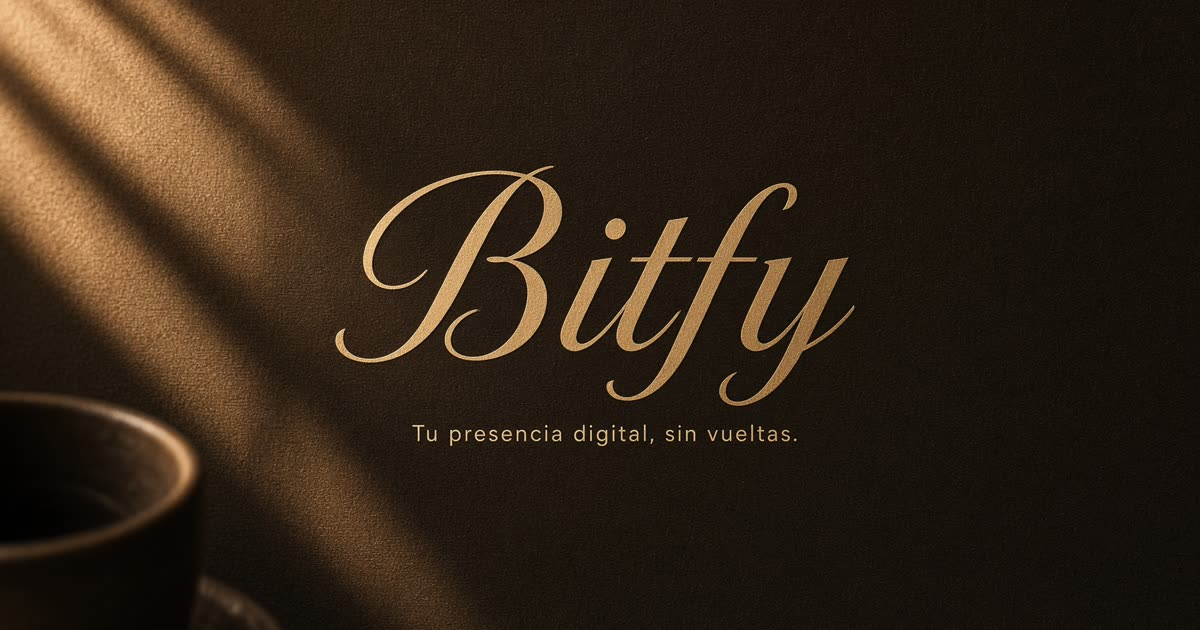
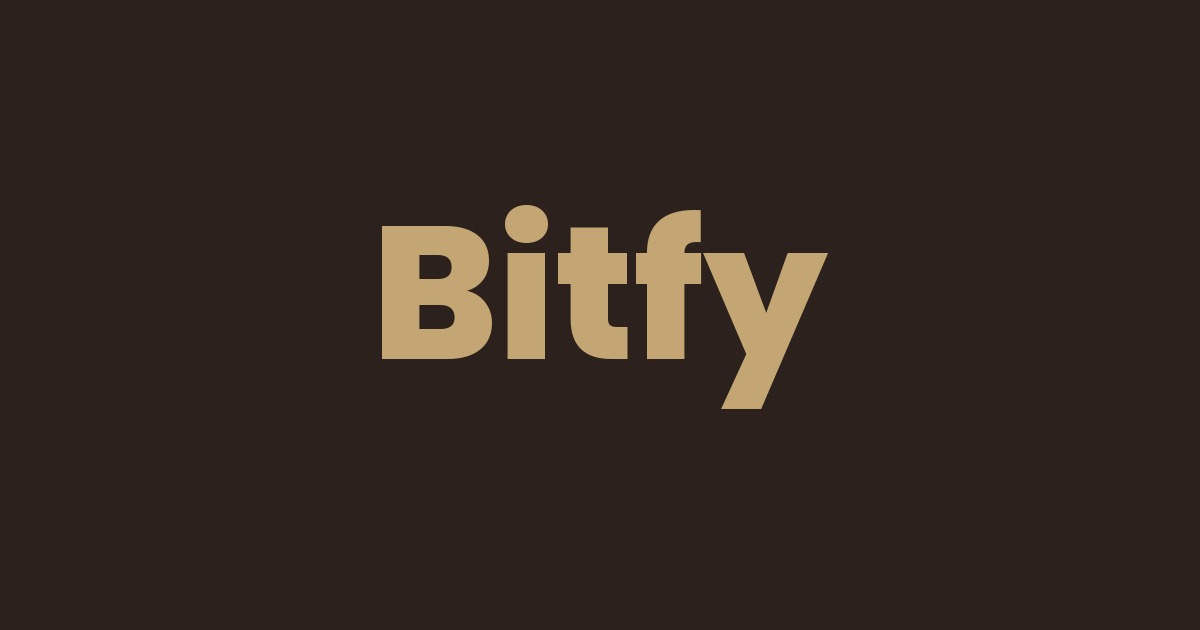
Preview de WhatsApp con el wordmark original de Bitfy

diff --git a/server/middleware/bitfy-og.ts b/server/middleware/bitfy-og.ts
@@ -1,9 +1,16 @@
-const OG_IMAGE = "https://bitfy.vercel.app/og.jpg?v=autumn";
+const OG_IMAGE = "https://www.bitfy.com.ar/og.jpg?v=wordmark";
+
 const OG_TAGS = [
+  `<meta property="og:title" content="Bitfy">`,
+  `<meta property="og:description" content="Tu presencia digital, sin vueltas.">`,
+  `<meta property="og:url" content="https://www.bitfy.com.ar/">`,
   `<meta property="og:image" content="${OG_IMAGE}">`,
+  `<meta property="og:image:secure_url" content="${OG_IMAGE}">`,
   `<meta property="og:image:width" content="1200">`,
   `<meta property="og:image:height" content="630">`,
   `<meta property="og:image:type" content="image/jpeg">`,
+  `<meta property="og:image:alt" content="Bitfy">`,
+  `<meta name="twitter:card" content="summary_large_image">`,
   `<meta name="twitter:image" content="${OG_IMAGE}">`,
 ].join("");
 
@@ -20,14 +27,11 @@ export default async function bitfyOgMiddleware(
   const type = result.headers.get("content-type") ?? "";
   if (!type.includes("text/html") || !result.body) return result;
 
-  const html = await result.text();
-  if (html.includes('property="og:image"')) {
-    return new Response(html, {
-      status: result.status,
-      statusText: result.statusText,
-      headers: result.headers,
-    });
-  }
+  let html = await result.text();
+  html = html
+    .replace(/<meta[^>]+property=["']og:image["'][^>]*>/gi, "")
+    .replace(/<meta[^>]+property=["']og:image:secure_url["'][^>]*>/gi, "")
+    .replace(/<meta[^>]+name=["']twitter:image["'][^>]*>/gi, "");
 
   const nextHtml = /<\/head>/i.test(html)
     ? html.replace(/<\/head>/i, `${OG_TAGS}</head>`)

diff --git a/src/routes/__root.tsx b/src/routes/__root.tsx
@@ -17,6 +17,14 @@ export const Route = createRootRoute({
           "Diseño y desarrollo web para emprendedores, profesionales y PyMEs. Sitios claros, rápidos de lanzar y pensados para generar consultas.",
       },
       { name: "theme-color", content: "#2C211C" },
+      { property: "og:title", content: "Bitfy" },
+      { property: "og:description", content: "Tu presencia digital, sin vueltas." },
+      { property: "og:url", content: "https://www.bitfy.com.ar/" },
+      { property: "og:image", content: "https://www.bitfy.com.ar/og.jpg?v=wordmark" },
+      { property: "og:image:width", content: "1200" },
+      { property: "og:image:height", content: "630" },
+      { name: "twitter:card", content: "summary_large_image" },
+      { name: "twitter:image", content: "https://www.bitfy.com.ar/og.jpg?v=wordmark" },
     ],
     links: [
       { rel: "icon", type: "image/svg+xml", href: "/favicon.svg" },
